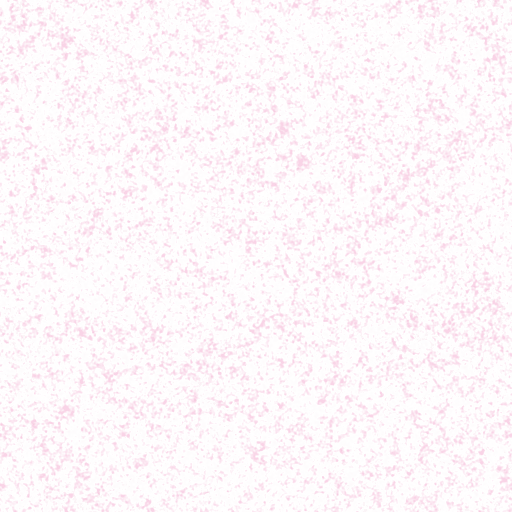
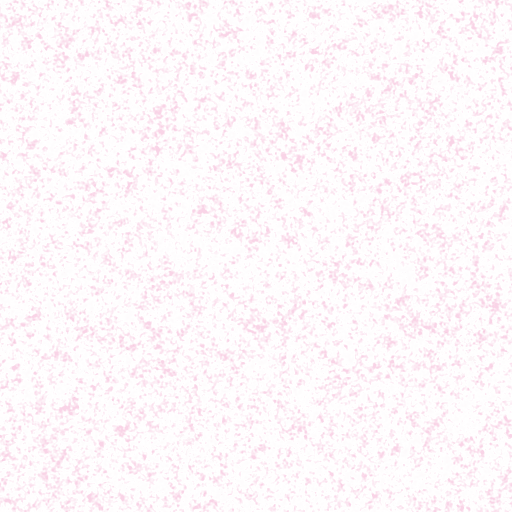
Finish-review fixes: fine grain for type, softer tint mottle, Google on the primary plate, camera tools clear of the brackets

diff --git a/assets/css/gatepass.css b/assets/css/gatepass.css
@@ -73,7 +73,9 @@ html { scrollbar-color: var(--blue) transparent; scrollbar-width: thin; }
 .sr { position: absolute !important; width: 1px; height: 1px; overflow: hidden; clip: rect(0 0 0 0); white-space: nowrap; }
 
 /* ── ink textures ─────────────────────────────────────────────── */
-.ink, .inked { -webkit-mask: url("../img/ink.png") 0 0 / 256px 256px; mask: url("../img/ink.png") 0 0 / 256px 256px; }
+/* type gets a fine single-grain mask (no stroke ever breaks); marks get the clustered drum texture */
+.ink { -webkit-mask: url("../img/ink-text.png") 0 0 / 256px 256px; mask: url("../img/ink-text.png") 0 0 / 256px 256px; }
+.inked { -webkit-mask: url("../img/ink.png") 0 0 / 256px 256px; mask: url("../img/ink.png") 0 0 / 256px 256px; }
 .ink { padding-block: .12em .26em; margin-block: -.12em -.26em; }   /* room for g, j, p, q, y and accents inside the mask */
 .grain { position: relative; isolation: isolate; }
 .grain::after {
@@ -154,7 +156,7 @@ h2.head, .head {
 .row {
   display: flex; align-items: center; gap: 14px; width: 100%;
   min-height: 72px; padding: 12px 18px; border: 0; border-radius: var(--r-row);
-  background: var(--pink-tint) url("../img/mottle.png") 0 0 / 512px 512px; color: var(--blue); text-align: left; text-decoration: none;
+  background: var(--pink-tint) url("../img/mottle-soft.png") 0 0 / 512px 512px; color: var(--blue); text-align: left; text-decoration: none;
   font: 500 18px/1.2 var(--f-display); letter-spacing: .01em;
   transition: background-color .18s var(--ease-out), transform .12s var(--ease-out);
 }
@@ -191,7 +193,8 @@ label.row:focus-within { outline: 3px solid var(--pink); outline-offset: 3px; }
   font: 500 clamp(21px, 6.4vw, 25px)/1.1 var(--f-display); letter-spacing: .01em;
   transition: background-color .18s var(--ease-out), transform .12s var(--ease-out);
 }
-.btn-primary::after { content: ""; position: absolute; inset: 0; border-radius: inherit; background: url("../img/specks.png") 0 0 / 256px; opacity: .6; pointer-events: none; }
+.btn-primary::after { content: ""; position: absolute; inset: 0; border-radius: inherit; background: url("../img/specks.png") 0 0 / 256px; opacity: .6; pointer-events: none; z-index: 1; }
+.btn-primary > * { position: relative; z-index: 2; }   /* labels print clean white above the grain */
 .btn-primary:hover { background: #1B3FA6; color: #fff; }
 .btn-primary:active { transform: translateY(1px) scale(.997); }
 .btn-primary[disabled] { background: #6C7DB8; cursor: progress; }
@@ -206,7 +209,7 @@ label.row:focus-within { outline: 3px solid var(--pink); outline-offset: 3px; }
 /* ── stat (checked in) ────────────────────────────────────────── */
 .stat {
   display: grid; grid-template-columns: auto 1fr; column-gap: 16px; align-items: center;
-  padding: 18px 20px 20px; border-radius: var(--r-row); background: var(--pink-tint) url("../img/mottle.png") 0 0 / 512px 512px;
+  padding: 18px 20px 20px; border-radius: var(--r-row); background: var(--pink-tint) url("../img/mottle-soft.png") 0 0 / 512px 512px;
 }
 .stat .dot { width: 50px; height: 50px; grid-row: span 2; }
 .stat-label { font: 500 19px/1.1 var(--f-display); margin: 0; }
@@ -257,7 +260,7 @@ label.row:focus-within { outline: 3px solid var(--pink); outline-offset: 3px; }
 /* ── event list ───────────────────────────────────────────────── */
 .stub {
   display: grid; grid-template-columns: 92px 1fr auto; align-items: stretch; gap: 0;
-  text-decoration: none; color: var(--blue); background: var(--pink-tint) url("../img/mottle.png") 0 0 / 512px 512px; border-radius: var(--r-row); overflow: hidden;
+  text-decoration: none; color: var(--blue); background: var(--pink-tint) url("../img/mottle-soft.png") 0 0 / 512px 512px; border-radius: var(--r-row); overflow: hidden;
   min-height: 104px; transition: transform .15s var(--ease-out), background-color .18s;
 }
 .stub:hover { background-color: #F5C9DC; color: var(--blue); }
@@ -279,7 +282,7 @@ label.row:focus-within { outline: 3px solid var(--pink); outline-offset: 3px; }
 .backlink svg { width: 18px; height: 18px; }
 
 .gatebox { border-radius: var(--r-row); background: var(--blue); color: #fff; padding: 18px 20px 20px; position: relative; isolation: isolate; }
-.gatebox::after { content: ""; position: absolute; inset: 0; border-radius: inherit; background: url("../img/specks.png") 0 0 / 256px; opacity: .55; pointer-events: none; }
+.gatebox::after { content: ""; position: absolute; inset: 0; border-radius: inherit; background: url("../img/specks.png") 0 0 / 256px; opacity: .6; pointer-events: none; z-index: 1; }
 .gatebox > * { position: relative; z-index: 3; }
 .gatebox .kicker-free { font: 500 19px/1.1 var(--f-display); margin: 0; }
 .gate-code { font: 700 clamp(42px, 13vw, 54px)/1 var(--f-display); letter-spacing: .06em; margin: 8px 0 4px; user-select: all; }
@@ -375,7 +378,7 @@ label.row:focus-within { outline: 3px solid var(--pink); outline-offset: 3px; }
   aspect-ratio: 1 / 1.18; max-height: 58dvh; width: 100%;
 }
 .viewport video { position: absolute; inset: 0; width: 100%; height: 100%; object-fit: cover; }
-.brackets { position: absolute; inset: 11% 13%; pointer-events: none; }
+.brackets { position: absolute; inset: 10% 13% 18%; pointer-events: none; }
 .brackets i { position: absolute; width: 18%; height: 15%; border: 6px solid var(--pink); }
 .brackets i:nth-child(1) { left: 0; top: 0; border-right: 0; border-bottom: 0; border-top-left-radius: 10px; }
 .brackets i:nth-child(2) { right: 0; top: 0; border-left: 0; border-bottom: 0; border-top-right-radius: 10px; }
@@ -383,7 +386,7 @@ label.row:focus-within { outline: 3px solid var(--pink); outline-offset: 3px; }
 .brackets i:nth-child(4) { right: 0; bottom: 0; border-left: 0; border-top: 0; border-bottom-right-radius: 10px; }
 .viewport.hunting .brackets { animation: breathe 2.4s var(--ease-out) infinite; }
 @keyframes breathe { 0%, 100% { scale: 1; } 50% { scale: .97; } }
-.cam-tools { position: absolute; right: 10px; top: 10px; display: flex; gap: 8px; z-index: 3; }
+.cam-tools { position: absolute; left: 50%; bottom: 10px; translate: -50% 0; display: flex; gap: 8px; z-index: 3; }   /* clear of the brackets */
 .cam-tools .icon-btn { background: rgba(246, 241, 239, .92); border-color: transparent; cursor: pointer; }
 .cam-tools .icon-btn:focus-within { outline: 3px solid var(--pink); outline-offset: 2px; }
 .cam-msg { position: absolute; inset: 0; display: grid; place-content: center; gap: 14px; padding: 24px; text-align: center; color: #F3EBEA; z-index: 2; }
@@ -396,21 +399,21 @@ label.row:focus-within { outline: 3px solid var(--pink); outline-offset: 3px; }
   display: flex; align-items: center; gap: 14px; min-height: 84px; padding: 14px 18px; border-radius: var(--r-row);
   position: relative; isolation: isolate; margin-top: 12px;
 }
-.verdict::after { content: ""; position: absolute; inset: 0; border-radius: inherit; background: url("../img/specks.png") 0 0 / 256px; opacity: .45; pointer-events: none; }
+.verdict::after { content: ""; position: absolute; inset: 0; border-radius: inherit; background: url("../img/specks.png") 0 0 / 256px; opacity: .55; pointer-events: none; z-index: 1; }
 .verdict > * { position: relative; z-index: 3; }
 .verdict .v-ico { width: 52px; height: 52px; flex: none; }
 .verdict .v-text { flex: 1; min-width: 0; }
 .v-main { font: 600 clamp(24px, 7.6vw, 31px)/1.05 var(--f-display); margin: 0; overflow-wrap: anywhere; }
 .v-main .sep { font-weight: 500; font-size: .82em; }
 .v-sub { font: 500 15px/1.3 var(--f-ui); margin: 4px 0 0; }
-.verdict.idle { background: var(--pink-tint) url("../img/mottle.png") 0 0 / 512px 512px; color: var(--blue); }
+.verdict.idle { background: var(--pink-tint) url("../img/mottle-soft.png") 0 0 / 512px 512px; color: var(--blue); }
 .verdict.idle .v-main { font-size: 22px; font-weight: 500; }
 .verdict.ok { background: var(--go); color: #fff; }
 .verdict.ok .v-sub { color: #fff; }
-.verdict.dup { background: var(--stop-tint) url("../img/mottle.png") 0 0 / 512px 512px; color: #C8103F; }
+.verdict.dup { background: var(--stop-tint) url("../img/mottle-soft.png") 0 0 / 512px 512px; color: #C8103F; }
 .verdict.dup .v-main { font-size: clamp(22px, 6.6vw, 27px); }
 .verdict.dup .v-sub { color: #9E0F3A; }
-.verdict.warn { background: var(--pink-tint) url("../img/mottle.png") 0 0 / 512px 512px; color: var(--pink-ink); }
+.verdict.warn { background: var(--pink-tint) url("../img/mottle-soft.png") 0 0 / 512px 512px; color: var(--pink-ink); }
 .verdict.pop { animation: pop .42s var(--ease-out); }
 @keyframes pop { 0% { transform: scale(.94); } 55% { transform: scale(1.015); } 100% { transform: scale(1); } }
 
@@ -421,7 +424,7 @@ label.row:focus-within { outline: 3px solid var(--pink); outline-offset: 3px; }
 .flash.show { animation: flash 1s var(--ease-out) forwards; }
 @keyframes flash { 0% { opacity: .96; } 55% { opacity: .9; } 100% { opacity: 0; } }
 
-.counter { display: flex; align-items: center; gap: 14px; margin-top: 12px; padding: 12px 16px; border-radius: var(--r-row); background: var(--pink-tint) url("../img/mottle.png") 0 0 / 512px 512px; }
+.counter { display: flex; align-items: center; gap: 14px; margin-top: 12px; padding: 12px 16px; border-radius: var(--r-row); background: var(--pink-tint) url("../img/mottle-soft.png") 0 0 / 512px 512px; }
 .counter .c-label { font: 500 16px/1 var(--f-display); white-space: nowrap; }
 .counter .c-num { font: 700 30px/1 var(--f-display); white-space: nowrap; }
 .recent { list-style: none; margin: 0; padding: 0; }
@@ -488,3 +491,7 @@ label.row:focus-within { outline: 3px solid var(--pink); outline-offset: 3px; }
 .stat-num.ink { margin-top: calc(2px - .12em); margin-bottom: -.26em; }
 .gate-code.ink { margin-top: calc(8px - .12em); margin-bottom: calc(4px - .26em); }
 .logo.ink { display: inline-block; margin-block: -.12em -.26em; }
+
+/* the only sign-in action wears the primary plate; the G sits on a white disc */
+.gdisc { width: 40px; height: 40px; border-radius: 50%; background: #fff; display: grid; place-items: center; flex: none; }
+.gdisc .google { width: 22px; height: 22px; }

diff --git a/assets/js/organiser.js b/assets/js/organiser.js
@@ -89,7 +89,7 @@ function signInView(errMsg = "") {
 
       ${cfg.emailSignIn === false ? `
       <p class="err" id="sErr" role="alert" ${errMsg ? "" : "hidden"}>${esc(errMsg)}</p>
-      <button class="row" type="button" id="google" style="min-height:66px;justify-content:center;font-size:20px">${I.google}<span>Continue with Google</span></button>
+      <button class="btn-primary compact" type="button" id="google"><span class="gdisc">${I.google}</span><span class="label">Continue with Google</span><span class="arrow">${I.arrow}</span></button>
       <p class="fine" style="margin:0">Organisers sign in with Google. Gate staff and attendees never need an account.</p>` : `
       <form id="signin" class="stack" novalidate style="margin-top:6px">
         <label class="field"><span>Organiser email</span>
